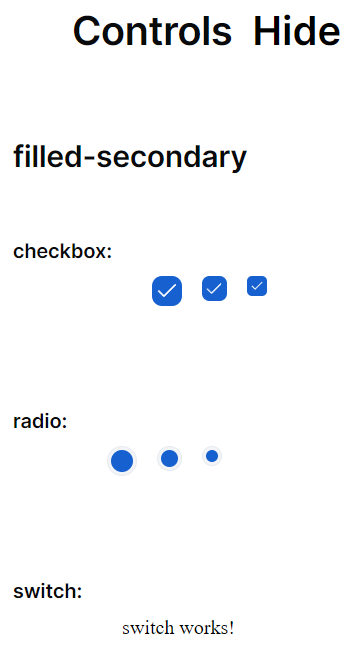
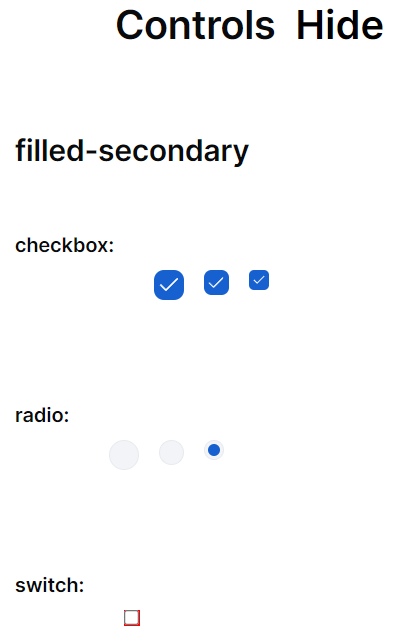
feat: add switch comp structure, remove radio animation

diff --git a/src/app/shared/ui-kit/switch/switch.component.ts b/src/app/shared/ui-kit/switch/switch.component.ts
@@ -1,10 +1,44 @@
-import { Component } from '@angular/core';
+import { Component, Input } from '@angular/core'
+import { MibSwitchSize } from './interfaces/switch.interface'
 
 @Component({
-  selector: 'mib-switch',
-  templateUrl: './switch.component.html',
-  styleUrls: ['./switch.component.scss']
+	host: {
+		'[class]': 'align'
+	},
+	selector: 'mib-switch',
+	templateUrl: './switch.component.html',
+	styleUrls: ['./switch.component.scss']
 })
 export class SwitchComponent {
+	@Input() size: MibSwitchSize = 'm'
+	@Input() class: string = ''
+	@Input() align: string = 'flex_align-self-start'
+	@Input() id: string = ''
 
+	public value: boolean = false
+
+	ngAfterViewInit() {}
+
+	onChange: any = () => {}
+	onTouch: any = () => {}
+
+	writeValue(value: boolean): void {
+		this.value = value
+		this.onChange(this.value)
+	}
+
+	registerOnChange(fn: any): void {
+		this.onChange = fn
+	}
+
+	registerOnTouched(fn: any): void {
+		this.onTouch = fn
+	}
+
+	onSwitchChange(event: Event): void {
+		event.stopPropagation()
+		event.preventDefault()
+		this.value = !this.value
+		this.writeValue(this.value)
+	}
 }

diff --git a/src/app/shared/ui-kit/radio/radio.component.ts b/src/app/shared/ui-kit/radio/radio.component.ts
@@ -9,41 +9,7 @@ import { MibRadioSize } from './interfaces/radio.interface'
 	},
 	selector: 'mib-radio',
 	templateUrl: './radio.component.html',
-	styleUrls: ['./radio.component.scss'],
-	encapsulation: ViewEncapsulation.None,
-	providers: [
-		{
-			provide: NG_VALUE_ACCESSOR,
-			useExisting: forwardRef(() => RadioComponent),
-			multi: true
-		}
-	],
-	animations: [
-		trigger('radioAnimation', [
-			transition(':enter', [
-				style({
-					transform: 'translate(-50%,-90%) rotateX(-60deg)'
-				}),
-				animate(
-					'300ms ease',
-					style({
-						transform: 'translate(-50%,-50%) rotateX(0deg)'
-					})
-				)
-			]),
-			transition(':leave', [
-				style({
-					transform: 'translate(-50%,-50%) rotateX(0deg)'
-				}),
-				animate(
-					'200ms ease',
-					style({
-						transform: 'translate(-50%,-20%) rotateX(60deg)'
-					})
-				)
-			])
-		])
-	]
+	styleUrls: ['./radio.component.scss']
 })
 export class RadioComponent implements ControlValueAccessor {
 	public value: boolean = false

diff --git a/src/app/shared/ui-kit/switch/switch.component.html b/src/app/shared/ui-kit/switch/switch.component.html
@@ -1,1 +1,15 @@
-<p>switch works!</p>
+<label class="flex flex_align-center switch w-100" [ngClass]="class">
+	<input
+		type="checkbox"
+		[checked]="value"
+		(click)="onSwitchChange($event)"
+		class="switch-input"
+	/>
+	<span
+		[class.checked]="value"
+		class="switch-control flex flex_center"
+		[ngClass]="'switch-control_' + size"
+	>
+	</span>
+	<ng-content></ng-content>
+</label>

diff --git a/src/styles/components/_switch.scss b/src/styles/components/_switch.scss
@@ -1,0 +1,15 @@
+@import 'src/styles/helpers/_icon_tools.scss';
+
+@mixin switch {
+	position: relative;
+	cursor: pointer;
+	background-color: red;
+}
+
+.switch {
+	@include switch;
+
+	.text {
+		user-select: none;
+	}
+}

diff --git a/src/app/shared/ui-kit/switch/interfaces/switch.interface.ts b/src/app/shared/ui-kit/switch/interfaces/switch.interface.ts
@@ -1,2 +1,1 @@
-export interface SwitchInterface {
-}
+export type MibSwitchSize = 'l' | 'm' | 's'

diff --git a/src/styles/components/main.scss b/src/styles/components/main.scss
@@ -10,3 +10,4 @@
 @import './select';
 @import './tag';
 @import './radio';
+@import './switch';
